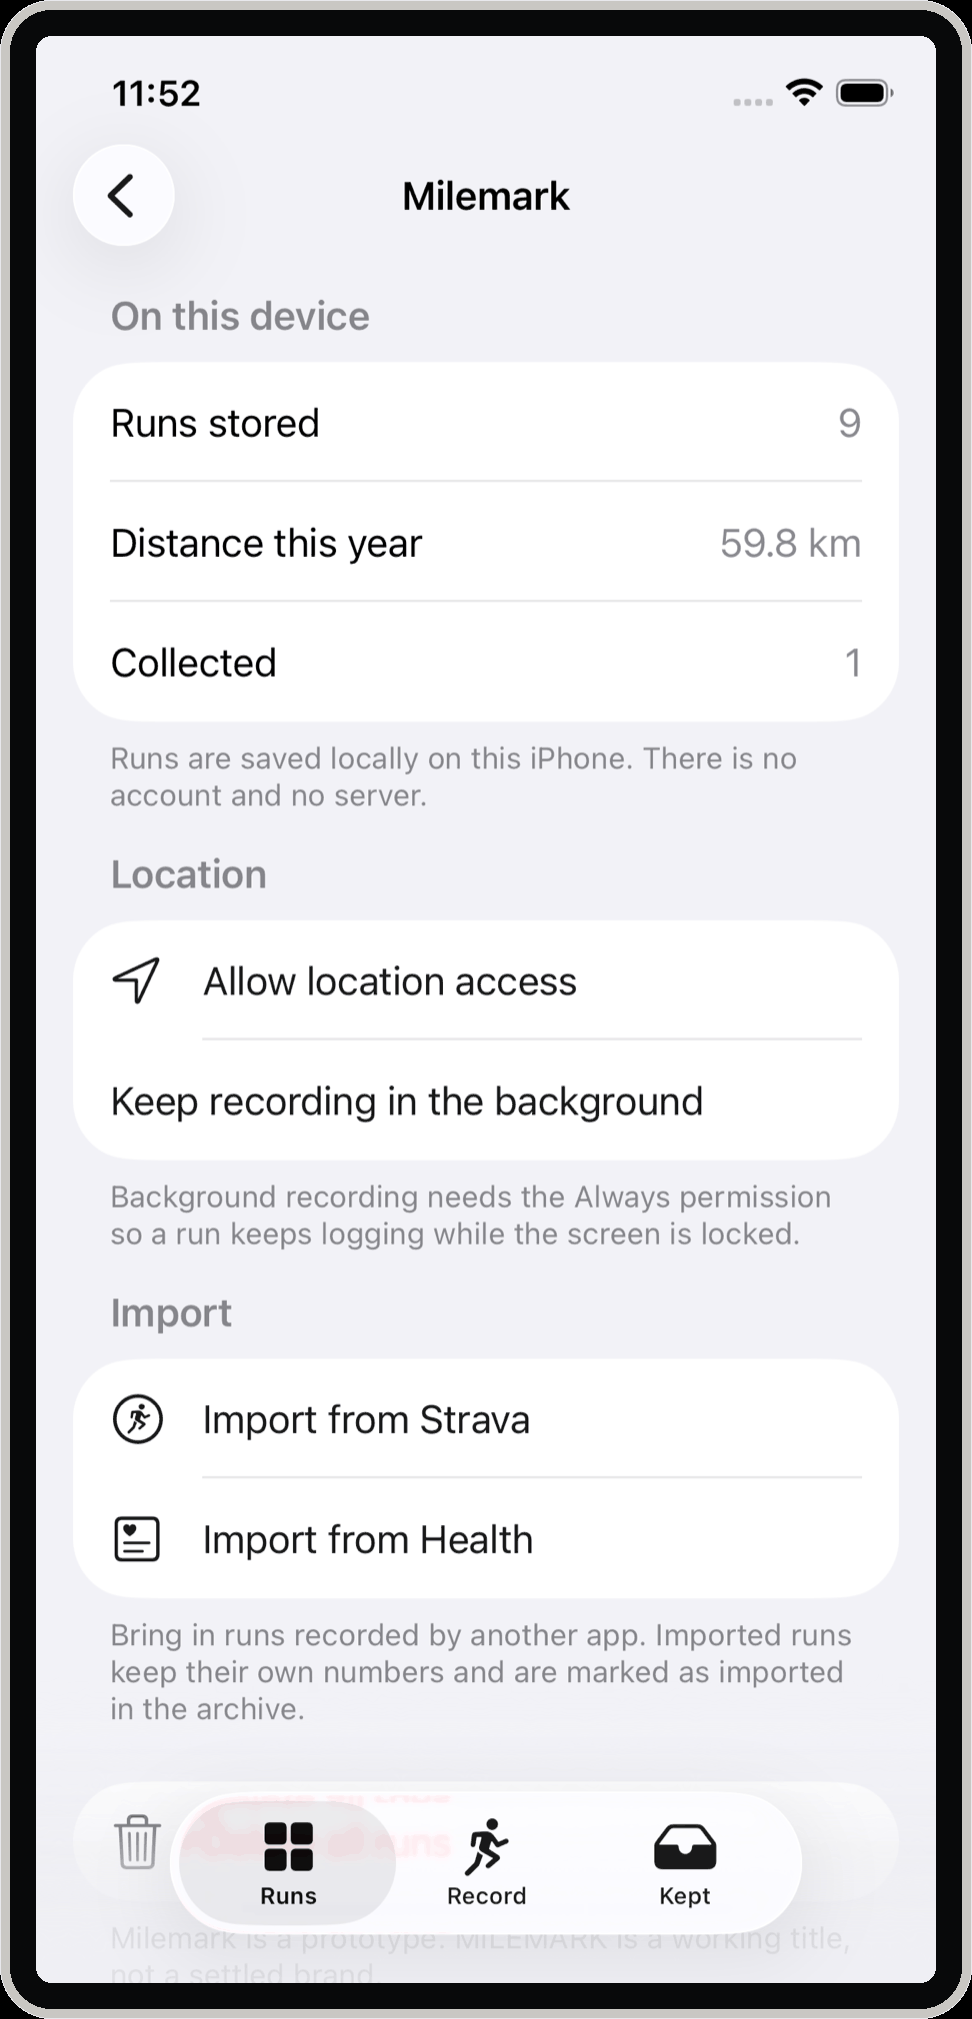
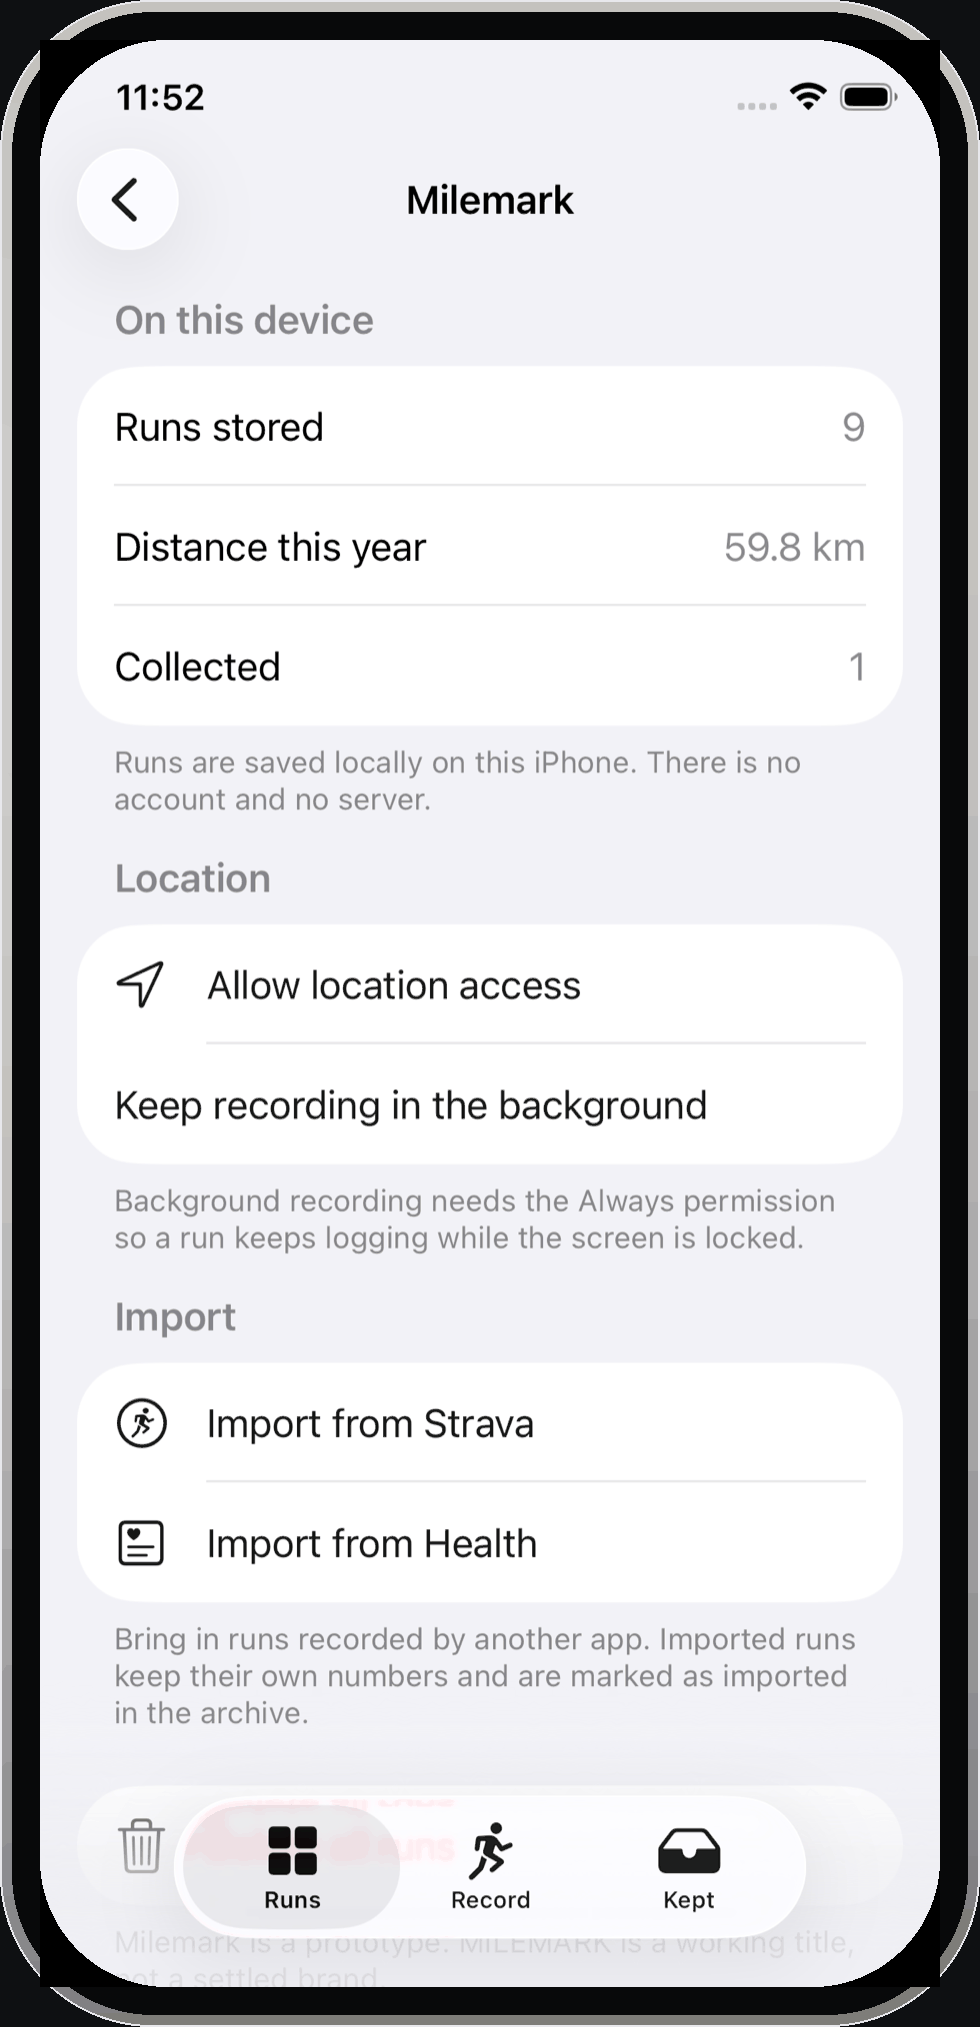
feat: the frames are an iPhone 17 Pro frame
The device was a flat grey band around a black rectangle. It is now the
frame the other readmes use: a titanium band with a sheen across the
upper left, the black glass behind the display, the 66 pt device radius
and the 55 pt screen radius, all in the points of the phone they come
from.

The band is a gradient rather than a flat colour, so the device is
built once and the video frames are composited into it. The device
cannot wobble between one moment of the demo and the next, and the
demo now takes four seconds to draw instead of a minute.

diff --git a/design/device.py b/design/device.py
@@ -1,65 +1,128 @@
-"""The phone the screens are shown in.
+"""The iPhone the screens are shown in.
 
 The simulator records the app's screen and not the phone around it, so the
-device is drawn here: a metal edge, the chamfer where the metal turns over,
-the black bezel, and the screen with the iPhone's own corner radius.
+device is drawn here: a titanium band, the black glass behind the display,
+and the screen with the corners a real display curves into the body.
 
-The proportions are taken from the device the readme's own screenshots use,
-measured off the rendered file rather than guessed:
+The measurements are the iPhone 17 Pro's, in points:
 
-    2 px   the metal edge, (232, 232, 236)
-   13 px   the metal itself, (201, 199, 195)
-   36 px   the black bezel, (8, 9, 10)
-    21 px  the screen's corner radius
+    5 pt   the titanium band
+   12 pt   the black glass
+   66 pt   the device's own corner radius
+   55 pt   the screen's corner radius
 
-Every measurement is a fraction of the screen's width, so the device is the
-same shape at any size. One drawing, used by both the still frames and the
-demo, so the two always look like the same phone.
+The band is not a flat grey. It is a gradient with a bright sheen across the
+upper left, the way a milled titanium edge catches the light, and the whole
+thing is a single static frame that is composited under every frame of the
+demo, so the device cannot wobble between one moment and the next.
+
+One drawing, used by both the still frames and the demo, so the two always
+look like the same phone.
 """
+
+import math
 
 from PIL import Image, ImageDraw
 
-# The rings around the screen, as fractions of the screen's width.
-EDGE = 0.0017
-CHAMFER = 0.0108
-BEZEL = 0.0299
+GLASS_PT = 12.0
+BAND_PT = 5.0
+DEVICE_RADIUS_PT = 66.0
+SCREEN_RADIUS_PT = 55.0
 
-# The screen's own corners, and the device's.
-# The still frames use a small radius, so the screen reads as a photograph of
-# a screen. The demo uses a rounder one, so the phone reads as a phone.
-SCREEN_RADIUS = 0.0174
-DEMO_SCREEN_RADIUS = 0.115
+# The width of the phone the capture came from, in points. The iPhone 17e.
+LOGICAL_W = 390
 
 # The Dynamic Island, as fractions of the screen. On the iPhone 17e it is
 # 125 pt wide on a 390 pt screen, 36.7 pt tall, and 11 pt from the top.
-ISLAND_WIDTH = 0.320
-ISLAND_HEIGHT = 0.0435
-ISLAND_TOP = 0.013
+ISLAND_WIDTH_PT = 125.0
+ISLAND_HEIGHT_PT = 36.7
+ISLAND_TOP_PT = 11.0
 
 # The home indicator.
-INDICATOR_WIDTH = 0.360
-INDICATOR_HEIGHT = 0.0052
-INDICATOR_BOTTOM = 0.0075
+INDICATOR_WIDTH_PT = 140.0
+INDICATOR_HEIGHT_PT = 5.0
+INDICATOR_BOTTOM_PT = 8.0
 
-METAL_EDGE = (232, 232, 236)
-METAL = (201, 199, 195)
-BEZEL_COLOUR = (8, 9, 10)
-INDICATOR_COLOUR = (150, 150, 150)
+GLASS = (8, 9, 10)
+OUTLINE = (232, 232, 236)
+INDICATOR = (150, 150, 150)
 
 # GitHub's canvas in dark mode, #0D1116. The demo is drawn on it so that the
 # device sits on the page rather than on a white card.
 GITHUB_DARK = (13, 17, 22)
 
 
-def rounded_mask(size, radius):
-    mask = Image.new("L", size, 0)
-    ImageDraw.Draw(mask).rounded_rectangle(
-        [0, 0, size[0] - 1, size[1] - 1], radius=radius, fill=255
+def band_gradient(w, h):
+    """Titanium: a soft vertical gradient with a bright upper-left sheen."""
+    base = Image.new("RGB", (w, h), (0, 0, 0))
+    px = base.load()
+    for y in range(h):
+        t = y / max(1, h - 1)
+        v = int(196 - 74 * t + 26 * math.sin(t * math.pi))
+        for x in range(w):
+            u = x / max(1, w - 1)
+            sheen = int(16 * (1 - u) * math.sin(t * math.pi * 0.8))
+            c = max(0, min(255, v + sheen))
+            px[x, y] = (c, c - 2, c - 6)
+    return base
+
+
+def frame_parts(screen_w, screen_h, logical_width=LOGICAL_W):
+    """The device, the screen's mask, and where the screen goes in it."""
+    scale = screen_w / logical_width
+    glass = int(round(GLASS_PT * scale))
+    band = int(round(BAND_PT * scale))
+    w = screen_w + 2 * (glass + band)
+    h = screen_h + 2 * (glass + band)
+    r_device = int(round(DEVICE_RADIUS_PT * scale))
+    r_glass = int(round((DEVICE_RADIUS_PT - BAND_PT) * scale))
+    r_screen = int(round(SCREEN_RADIUS_PT * scale))
+    off = (band + glass, band + glass)
+
+    canvas = Image.new("RGB", (w, h), (14, 16, 18))
+    mask = Image.new("L", (w, h), 0)
+    ImageDraw.Draw(mask).rounded_rectangle((0, 0, w - 1, h - 1), radius=r_device, fill=255)
+    canvas.paste(band_gradient(w, h), (0, 0), mask)
+
+    draw = ImageDraw.Draw(canvas)
+    draw.rounded_rectangle(
+        (0, 0, w - 1, h - 1),
+        radius=r_device,
+        outline=OUTLINE,
+        width=max(1, int(round(scale * 0.8))),
     )
-    return mask
+    draw.rounded_rectangle(
+        (band, band, w - band - 1, h - band - 1), radius=r_glass, fill=GLASS
+    )
+
+    screen_mask = Image.new("L", (screen_w, screen_h), 0)
+    ImageDraw.Draw(screen_mask).rounded_rectangle(
+        (0, 0, screen_w - 1, screen_h - 1), radius=r_screen, fill=255
+    )
+    return canvas, screen_mask, off
 
 
-def draw_device(screen, background=None, island=False, indicator=False, screen_radius=SCREEN_RADIUS):
+def draw_island(device, screen_size, offset, logical_width=LOGICAL_W):
+    """Draws the Dynamic Island over a screen.
+
+    The simulator never draws it, so the app has to. It is drawn after the
+    screen is composited, because it sits on top of the app's own pixels.
+    """
+    width, height = screen_size
+    scale = width / logical_width
+    island_w = int(round(ISLAND_WIDTH_PT * scale))
+    island_h = int(round(ISLAND_HEIGHT_PT * scale))
+    island_x = offset[0] + (width - island_w) // 2
+    island_y = offset[1] + int(round(ISLAND_TOP_PT * scale))
+    ImageDraw.Draw(device).rounded_rectangle(
+        (island_x, island_y, island_x + island_w, island_y + island_h),
+        radius=island_h // 2,
+        fill=(0, 0, 0),
+    )
+    return device
+
+
+def draw_device(screen, background=None, logical_width=LOGICAL_W, island=False):
     """Puts a screen inside a drawn iPhone.
 
     The background is what shows around the device. It is `None` for a
@@ -67,73 +130,17 @@ def draw_device(screen, background=None, island=False, indicator=False, screen_r
     """
     screen = screen.convert("RGB")
     width, height = screen.size
-    edge = max(1, int(width * EDGE))
-    chamfer = max(1, int(width * CHAMFER))
-    bezel = max(2, int(width * BEZEL))
-    radius = int(width * screen_radius)
-    mask = rounded_mask(screen.size, radius)
+    frame, mask, off = frame_parts(width, height, logical_width)
 
-    total = (
-        width + 2 * (edge + chamfer + bezel),
-        height + 2 * (edge + chamfer + bezel),
-    )
-    transparent = background is None
-    if transparent:
-        canvas = Image.new("RGBA", total, (0, 0, 0, 0))
-        fill = lambda colour: colour + (255,)
-    else:
-        canvas = Image.new("RGB", total, background)
-        fill = lambda colour: colour
-
-    draw = ImageDraw.Draw(canvas)
-    # The metal wraps the black bezel, so the two arcs are the same curve
-    # offset by the width of the bezel.
-    outer = radius + bezel + chamfer + edge
-    draw.rounded_rectangle([0, 0, total[0] - 1, total[1] - 1], radius=outer, fill=fill(METAL_EDGE))
-    draw.rounded_rectangle(
-        [edge, edge, total[0] - 1 - edge, total[1] - 1 - edge],
-        radius=outer - edge,
-        fill=fill(METAL),
-    )
-    draw.rounded_rectangle(
-        [edge + chamfer, edge + chamfer, total[0] - 1 - edge - chamfer, total[1] - 1 - edge - chamfer],
-        radius=outer - edge - chamfer,
-        fill=fill(BEZEL_COLOUR),
-    )
-
-    origin = (edge + chamfer + bezel, edge + chamfer + bezel)
-    if transparent:
-        screen_rgba = screen.convert("RGBA")
-        screen_rgba.putalpha(mask)
-        canvas.alpha_composite(screen_rgba, origin)
-    else:
-        flat = Image.new("RGB", screen.size, (0, 0, 0))
+    if background is None:
+        device = frame.convert("RGBA")
+        flat = Image.new("RGB", (width, height), (0, 0, 0))
         flat.paste(screen, (0, 0), mask)
-        canvas.paste(flat, origin)
-
-    draw = ImageDraw.Draw(canvas)
+        device.paste(flat, off)
+    else:
+        device = frame
+        device.paste(screen, off, mask)
 
     if island:
-        # The Dynamic Island, which the simulator does not draw.
-        island_w = int(width * ISLAND_WIDTH)
-        island_h = max(3, int(height * ISLAND_HEIGHT))
-        island_x = origin[0] + (width - island_w) // 2
-        island_y = origin[1] + int(height * ISLAND_TOP)
-        draw.rounded_rectangle(
-            [island_x, island_y, island_x + island_w, island_y + island_h],
-            radius=island_h // 2,
-            fill=fill((0, 0, 0)),
-        )
-
-    if indicator:
-        # The home indicator, which the simulator does not draw either.
-        bar_w = int(width * INDICATOR_WIDTH)
-        bar_h = max(2, int(height * INDICATOR_HEIGHT))
-        bar_x = origin[0] + (width - bar_w) // 2
-        bar_y = origin[1] + height - int(height * INDICATOR_BOTTOM) - bar_h
-        draw.rounded_rectangle(
-            [bar_x, bar_y, bar_x + bar_w, bar_y + bar_h],
-            radius=bar_h // 2,
-            fill=fill(INDICATOR_COLOUR),
-        )
-    return canvas
+        draw_island(device, (width, height), off, logical_width)
+    return device

diff --git a/design/frame-demo.py b/design/frame-demo.py
@@ -28,14 +28,23 @@ FPS = 8
 COLOURS = 96
 
 
-def frame_device(screen: Image.Image) -> Image.Image:
-    """Puts a screen inside the drawn iPhone."""
-    return device.draw_device(
-        screen,
-        background=device.GITHUB_DARK,
-        island=True,
-        screen_radius=device.DEMO_SCREEN_RADIUS,
-    )
+def make_framer():
+    """Builds the device once, and returns something that fills it."""
+    state = {}
+
+    def frame_device(screen: Image.Image) -> Image.Image:
+        width, height = screen.size
+        if "frame" not in state:
+            frame, mask, off = device.frame_parts(width, height)
+            state["frame"] = frame
+            state["mask"] = mask
+            state["off"] = off
+        composed = state["frame"].copy()
+        composed.paste(screen.convert("RGB"), state["off"], state["mask"])
+        device.draw_island(composed, (width, height), state["off"])
+        return composed
+
+    return frame_device
 
 
 def main() -> int:
@@ -64,9 +73,9 @@ def main() -> int:
             print("The video had no frames in it.", file=sys.stderr)
             return 1
 
+        frame_device = make_framer()
         for shot in shots:
-            device = frame_device(Image.open(shot))
-            device.save(shot)
+            frame_device(Image.open(shot)).save(shot)
 
         subprocess.run(
             [

diff --git a/README.md b/README.md
@@ -38,9 +38,9 @@ scrolled to the end, because a pull in the middle of a long receipt is a
 scroll.
 
 Every screenshot below is a real capture from the **iPhone 17e simulator on
-iOS 26.5**. The device — its metal edge, its black bezel, its Dynamic
-Island — is drawn around the capture; the app pixels inside it are
-untouched. See [the note on verification](#known-limits).
+iOS 26.5**. The iPhone 17e is drawn around the capture — its titanium
+band, its black glass, its corner radius — and the app pixels inside it
+are copied through untouched. See [the note on verification](#known-limits).
 
 ## Why Milemark?
 
@@ -300,15 +300,17 @@ bash design/capture-screenshots.sh "iPhone 17e"   # raw captures into .captures/
 python3 design/render-frames.py                   # framed images into Screenshots/frames/
 ```
 
-The frames are an iPhone drawn around each capture — a metal edge, a black
-bezel, the Dynamic Island and the home indicator, all of which the
-simulator records but never draws. There is no caption in the image; the
-readme writes the caption underneath it. The frames are then shrunk to a
-128-colour palette, which is indistinguishable on a page of greys and one
-third of the size.
+The frames are an iPhone drawn around each capture: a titanium band with a
+sheen across the upper left, the black glass behind the display, and the
+55 pt corner radius a real screen curves into the body with. The simulator
+records the app's screen and not the phone around it, so the device is
+drawn. There is no caption in the image; the readme writes the caption
+underneath it. The frames are then shrunk to a 128-colour palette, which is
+indistinguishable on a page of greys and one third of the size.
 
 The demo is drawn the same way, on GitHub's dark canvas, so that it sits on
-the page rather than on a white card.
+the page rather than on a white card. Its Dynamic Island is drawn too, since
+the simulator never draws that either.
 
 The capture script **fails** if the recorded track is not in the frame, so a
 blank map can never be published as a capture of a working screen.
